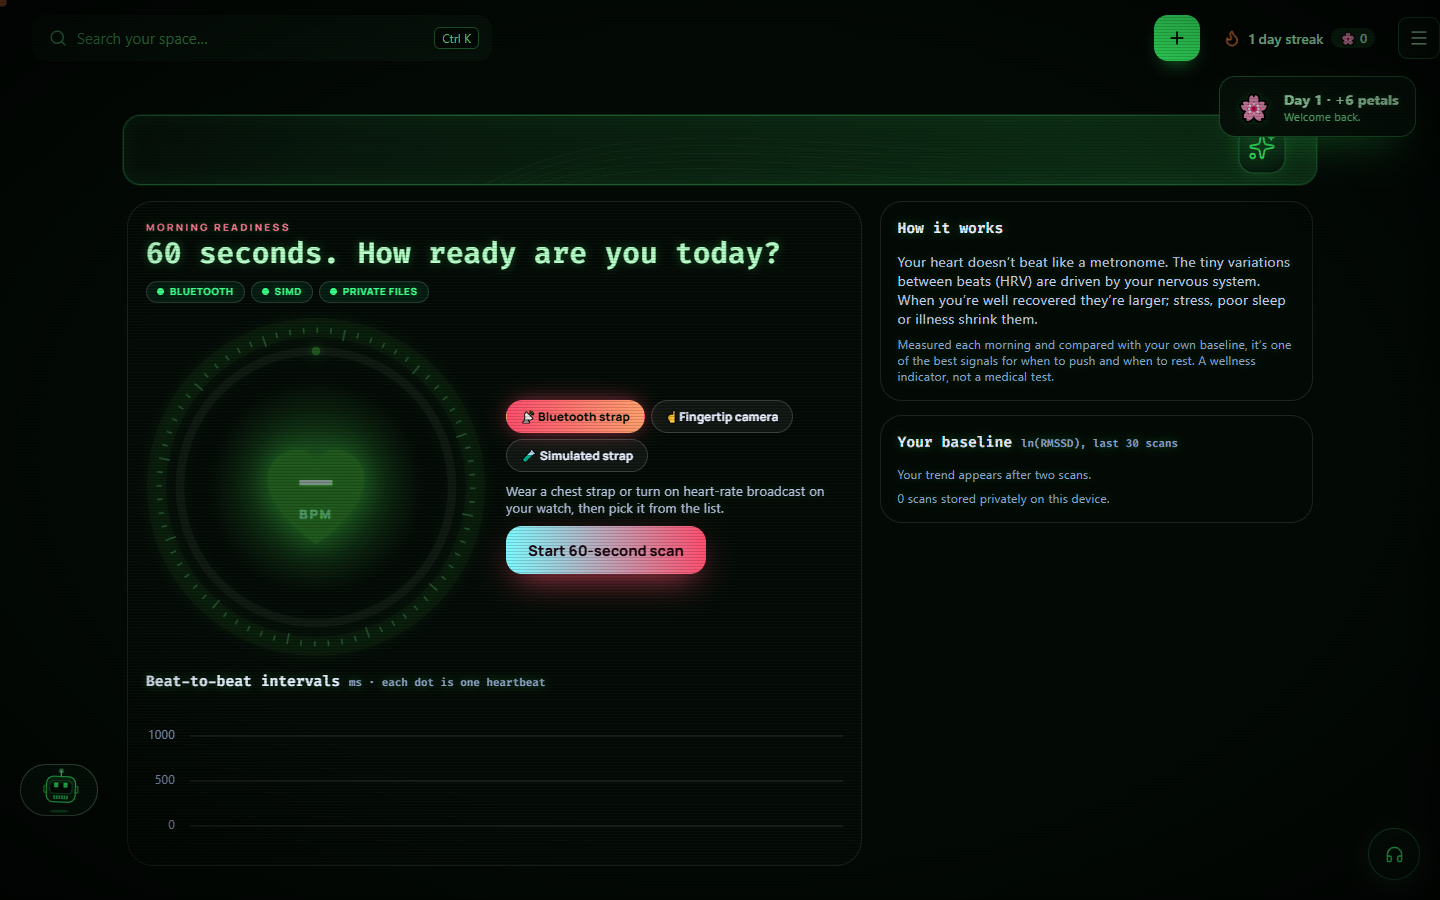
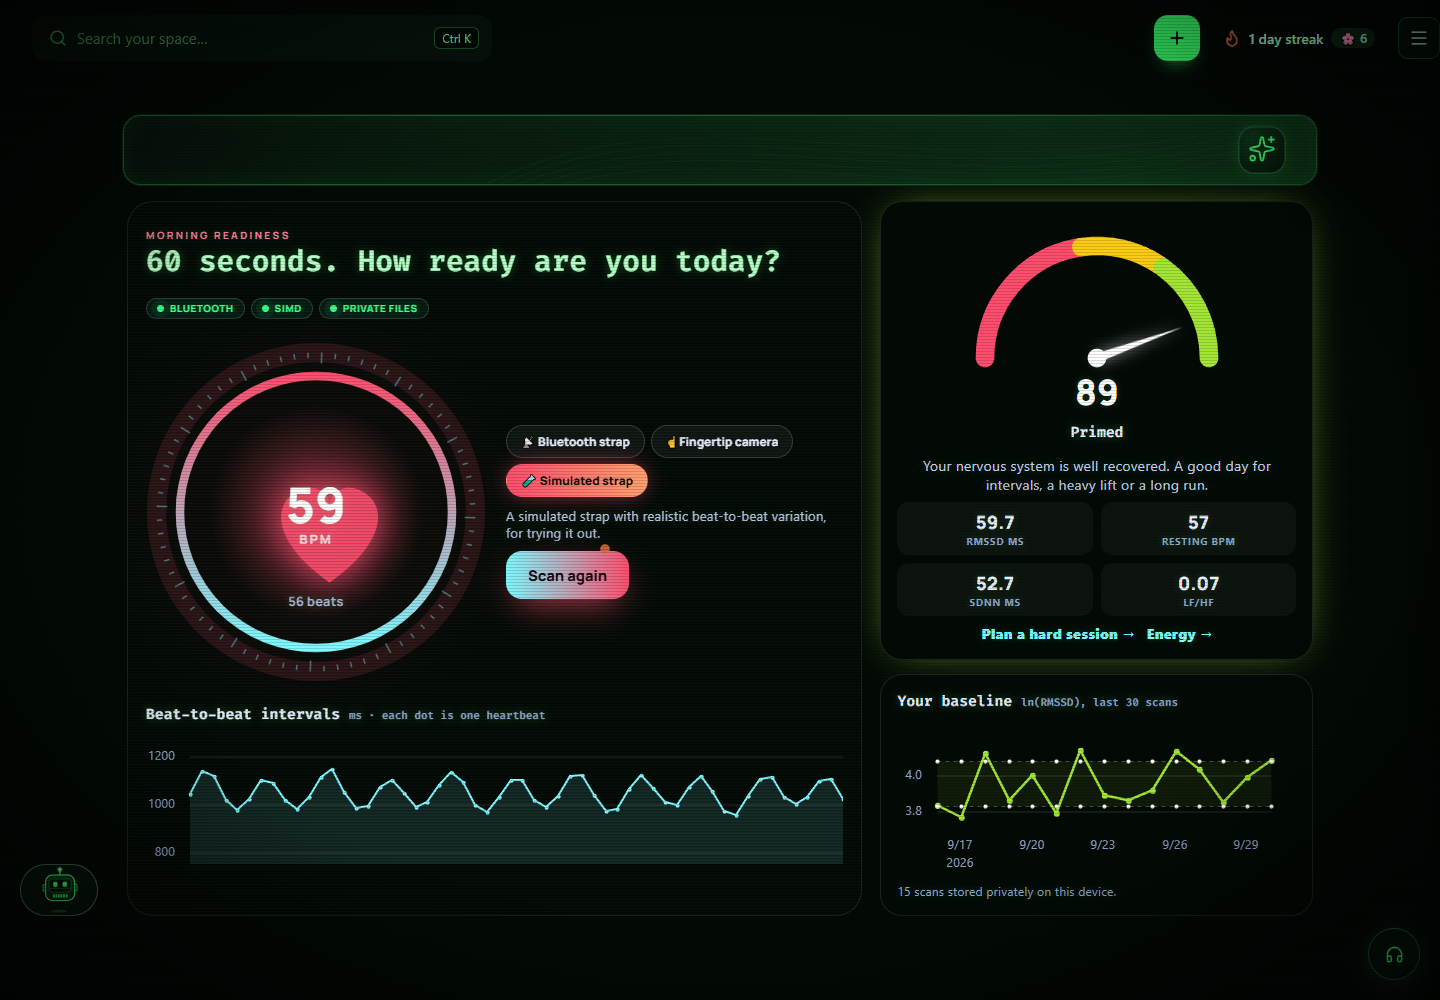
Wow 15 polish - Readiness: visible gauge needle (GSAP pivot fix), realistic simulated HRV, HUD and gauge keep their colours in Matrix; README gains an Advanced features screenshot table (Sound Lab, Terrain Replay, Readiness, Receipt Lens); plan adds Phase 2 (Compute Pressure, OffscreenCanvas, map-li

diff --git a/src/features/readiness/ReadinessPage.tsx b/src/features/readiness/ReadinessPage.tsx
@@ -36,7 +36,7 @@ function Hud({ phase, left, bpm, beats, pulse }: { phase: Phase; left: number; b
   const C = 2 * Math.PI * 128
   const done = phase === 'scanning' ? 1 - left / SCAN_S : phase === 'done' ? 1 : 0
   return (
-    <svg className="rd-hud" viewBox="0 0 320 320" role="img" aria-label={phase === 'scanning' ? `${bpm} beats per minute, ${left} seconds left` : 'Readiness scanner'}>
+    <svg className="rd-hud" data-matrix-native viewBox="0 0 320 320" role="img" aria-label={phase === 'scanning' ? `${bpm} beats per minute, ${left} seconds left` : 'Readiness scanner'}>
       <defs>
         <radialGradient id="rd-core"><stop offset="0" stopColor="#ff4d6d" stopOpacity="0.5" /><stop offset="1" stopColor="#ff4d6d" stopOpacity="0" /></radialGradient>
         <linearGradient id="rd-arc" x1="0" x2="1"><stop offset="0" stopColor="#7df9ff" /><stop offset="1" stopColor="#ff4d6d" /></linearGradient>
@@ -67,21 +67,21 @@ function Gauge({ v }: { v: Verdict }) {
   const angle = v.score == null ? -90 : -90 + (v.score / 100) * 180
   useLayoutEffect(() => {
     if (!needle.current) return
-    if (reduced()) gsap.set(needle.current, { rotation: angle, svgOrigin: '120 120' })
-    else gsap.fromTo(needle.current, { rotation: -90 }, { rotation: angle, svgOrigin: '120 120', duration: 1.8, ease: 'elastic.out(1, 0.35)' })
+    if (reduced()) gsap.set(needle.current, { rotation: angle, transformOrigin: '50% 100%' })
+    else gsap.fromTo(needle.current, { rotation: -90, transformOrigin: '50% 100%' }, { rotation: angle, duration: 1.8, ease: 'elastic.out(1, 0.35)' })
   }, [angle])
   const arc = (a0: number, a1: number) => {
     const p = (a: number) => `${120 + 96 * Math.cos(((a - 180) * Math.PI) / 180)} ${120 + 96 * Math.sin(((a - 180) * Math.PI) / 180)}`
     return `M${p(a0)} A96 96 0 0 1 ${p(a1)}`
   }
   return (
-    <svg className="rd-gauge" viewBox="0 0 240 140" role="img" aria-label={v.score == null ? v.label : `Readiness ${v.score} of 100, ${v.label}`}>
+    <svg className="rd-gauge" data-matrix-native viewBox="0 0 240 168" role="img" aria-label={v.score == null ? v.label : `Readiness ${v.score} of 100, ${v.label}`}>
       <path d={arc(0, 80)} className="rd-zone recover" />
       <path d={arc(82, 124)} className="rd-zone steady" />
       <path d={arc(126, 180)} className="rd-zone push" />
-      <g ref={needle}><line x1="120" y1="120" x2="120" y2="36" className="rd-needle" /></g>
+      <g ref={needle}><path d="M116 120 L120 42 L124 120 Z" className="rd-needle" /></g>
       <circle cx="120" cy="120" r="8" className="rd-hub" />
-      <text x="120" y="104" textAnchor="middle" className="rd-score">{v.score ?? '…'}</text>
+      <text x="120" y="160" textAnchor="middle" className="rd-score">{v.score ?? '…'}</text>
     </svg>
   )
 }
@@ -173,7 +173,7 @@ export function ReadinessPage() {
       onError: (m: string) => setErr(m),
     }
     try {
-      session.current = source === 'bluetooth' ? await connectBluetooth(h) : source === 'camera' ? await cameraPpg({ ...h, onBpm: undefined }, video.current!) : simulate(h, { hr: 57, rsa: 48, seed: Date.now() % 1000 })
+      session.current = source === 'bluetooth' ? await connectBluetooth(h) : source === 'camera' ? await cameraPpg({ ...h, onBpm: undefined }, video.current!) : simulate(h, { hr: 57, rsa: 72, seed: Date.now() % 1000 })
       setDevice(session.current.name)
       setPhase('scanning')
     } catch (e) {

diff --git a/src/features/readiness/readiness.css b/src/features/readiness/readiness.css
@@ -44,7 +44,7 @@
 .rd-zone.recover { stroke: #ff4d6d; }
 .rd-zone.steady { stroke: #facc15; }
 .rd-zone.push { stroke: #a3e635; }
-.rd-needle { stroke: #fff; stroke-width: 4; stroke-linecap: round; filter: drop-shadow(0 0 6px #fff); }
+.rd-needle { fill: #fff; filter: drop-shadow(0 0 6px #ffffffaa); }
 .rd-hub { fill: #fff; }
 .rd-score { fill: #fff; font: 900 30px 'Manrope', sans-serif; }
 .rd-metrics { display: grid; grid-template-columns: repeat(2, 1fr); gap: 8px; }

diff --git a/docs/WOW_ADVANCED_PLAN.md b/docs/WOW_ADVANCED_PLAN.md
@@ -20,6 +20,9 @@ The bar for every feature:
 | **SIMD** | WebAssembly SIMD128 |
 | **MT** | SharedArrayBuffer plus Atomics (true multi-core) |
 | **FSA** | File System Access API plus PWA file handlers |
+| **CP** | Compute Pressure API: CPU stress states (nominal, fair, serious, critical) |
+| **OC** | OffscreenCanvas: canvas rendering moved to a worker thread |
+| **MAP** | Joined to the map (Leaflet, as in Places and Run) |
 
 ## What's already in the app
 
@@ -93,3 +96,73 @@ Coverage: BT (15), OPFS (15–18, 20), GPU (13, 14, 17–20, 23), CRDT (19), SIM
 - **Bluetooth hardware (15)** runs in simulated-device mode for the demo and screenshots. Real devices work when paired.
 - Models are opt-in downloads with visible progress.
 - The Git features read local repositories only, and read-only.
+
+---
+
+# Phase 2: upgrading the existing features
+
+Money, Voice memos and Run have already been upgraded (13, 14, 16). This phase does the same for the rest of Bloom. There are three threads:
+
+1. **A calmer, smoother app:** Compute Pressure and OffscreenCanvas.
+2. **Everything on the map.**
+3. **Hardware and on-device compute** for pages that don't use them yet.
+
+Every idea below upgrades a page that already exists. None is a new standalone page, apart from Life Map (M1), which grows out of Places.
+
+## A. Platform: adaptive and off the main thread
+
+These are built once in `src/platform/`, then used by every heavy page.
+
+| # | Upgrade | What you'd notice | Caps | Libraries |
+|---|---|---|---|---|
+| A1 | **Thermal governor** (`platform/pressure.ts`) | Bloom watches CPU pressure through a `PressureObserver`. When your laptop heats up (**serious**), every 3D or particle scene steps down together: fewer particles, lower pixel ratio, 30 fps instead of 60. The worker pools shrink. At **critical**, heavy scenes pause behind a "cooling down" frost overlay. When pressure eases, quality returns. A header chip (calm, warm, hot) with a live SVG thermometer shows the state. | CP, MT | Compute Pressure API, `gsap`, `zustand` (shared quality store) |
+| A2 | **Off-thread rendering** (`platform/offscreen.ts`) | Canvas animations (WebGPU scenes, Matrix rain, visualisers, the mood orb) render in a worker through `transferControlToOffscreen()`, so typing, scrolling and heavy work never make them stutter. A debug overlay compares main-thread and render-thread frame times. | OC, GPU, CP | OffscreenCanvas, `three` (WebGPURenderer in a worker), `comlink` |
+| A3 | **Apply A1 and A2 to what we've built** | Sound Lab's mountain, Terrain Replay, Readiness HUD, 3D World, Memory Palace, Tai Chi silk shader, Decision coin, Globe quiz and Matrix rain all move off the main thread and adapt to heat. | OC, CP, GPU | the same |
+| A4 | **Build-break coach** (extends Screen time and Stretch) | Long stretches of **serious** CPU pressure usually mean compiles, test runs or Docker builds. Bloom notices and offers a 90-second stretch while you wait. Screen time learns your "machine busy" hours. | CP | Compute Pressure API, `date-fns`, `gsap` |
+
+## B. Everything on the map
+
+The map already lives in Places (with offline tile caching) and Run. The idea is to make it the thread that joins your features together.
+
+| # | Upgrade | What you'd notice | Caps | Libraries |
+|---|---|---|---|---|
+| M1 | **Life Map** (extends Places) | One map with a layer for each feature: runs (speed heat), moods, spending, journal and voice notes, people and habits. A **time slider** replays a week, month or year. A density heatmap is drawn in an OffscreenCanvas worker, so the map stays at 60 fps with thousands of points. | MAP, OC, CP, OPFS | existing `leaflet`, `deck.gl` (heatmap layer), `h3-js` (hex bins), `@turf/turf`, `gsap` |
+| M2 | **Mood geography** (extends Mood and Journal) | Check-ins can carry a coarse location (a hexagon, never exact). The map shows **where you feel best**, such as the park, the café or home, as coloured hexagons, with insights like "You log calmer moods near water." | MAP | `h3-js`, `chroma-js`, `simple-statistics`, existing `leaflet` |
+| M3 | **Money map** (extends Money and Receipt Lens) | Transactions and receipts remember where they were added. Circles are sized by spend. Tapping a shop shows every receipt image from it (stored in OPFS). You'll see things like "Your coffee radius is 400 m." | MAP, OPFS | existing `leaflet`, `@turf/turf`, `d3-scale`, `gsap` |
+| M4 | **Memory pins** (extends Daybook, Voice memos and Epiphanies) | Notes and memos remember where they were made. **"On this spot…"**: when you're near somewhere you wrote something before, Bloom offers to show it (a geofence while the app is open). | MAP, OPFS | Geolocation, `@turf/turf`, existing `leaflet` |
+| M5 | **People on the globe** (extends People garden and Globe quiz) | Friends and family on the Globe quiz's 3D globe, with a live **day/night terminator** and their local times. "Good time to call" glows for anyone awake. Birthdays show as pins. | MAP, OC | existing `d3-geo` and `topojson-client`, `suncalc`, `gsap` |
+| M6 | **Run explorer** (extends Run and Terrain Replay) | A **"streets you've run" coverage map**: street segments light up as you run them, with a percentage of your neighbourhood explored. "Suggest a new loop" builds a route of a chosen distance through streets you haven't run yet. | MAP, SIMD, MT | Overpass API (OpenStreetMap streets), `@turf/turf`, existing `leaflet`, worker pool for route matching |
+| M7 | **Place habits** (extends Habits) | Habits can have a place: gym, library or park. When you arrive (while Bloom is open), a check-in prompt appears. A habit map shows where you actually keep your habits. | MAP | Geolocation, `@turf/turf`, existing `leaflet` |
+| M8 | **Daylight map** (extends Daylight and Sleep) | Your location with the sun's position and today's light window. It logs outdoor-light minutes by place, and links to Sleep: "More morning light on days you walk to the park." | MAP | `suncalc`, existing `leaflet`, `simple-statistics` |
+| M9 | **Dark-sky finder** (extends Night sky) | A map of the nearest dark-sky spots, from light-pollution tiles and the moon phase, with tonight's best time. It opens Night sky already set to that spot. | MAP | light-pollution tile layer, existing `astronomy-engine`, `leaflet` |
+| M10 | **Year in places** (extends Yearbook) | An animated flight across every place in your year, using the Terrain Replay renderer: runs, trips and moods in order, ending on your "home base" stats. | MAP, GPU, OC | `three` (WebGPU), existing `leaflet`, `gsap` |
+
+## C. Hardware and compute upgrades for other pages
+
+| # | Upgrade (extends) | What you'd notice | Caps | Libraries |
+|---|---|---|---|---|
+| C1 | **Heart-coherence breathing** (Breathe, Breathwork, Meditate) | Uses the Readiness sources (Bluetooth strap or fingertip camera). The breathing orb expands with your **live heart-rate variability**, and a coherence score climbs as your breathing and heartbeat lock together (about 6 breaths a minute). Rendered off-thread. | BT, SIMD, OC | readiness `sources.ts`, PFFFT (SIMD), `uplot`, `gsap` |
+| C2 | **Heart-rate zones** (Intervals, Workouts, Run) | Pair a strap once and every timer shows live heart-rate zones. Intervals can auto-advance when your heart rate recovers. Workouts log average and peak heart rate. | BT, OPFS | Web Bluetooth `heart_rate`, `uplot`, `tone` |
+| C3 | **Camera features off the main thread** (Posture, Eyes, Sign alphabet, Mirror) | MediaPipe runs in a worker on an OffscreenCanvas, and drops its frame rate under CPU pressure. The page stays smooth and the laptop stays cool. | OC, CP, GPU | `@mediapipe/tasks-vision` (worker), OffscreenCanvas |
+| C4 | **Semantic memory search** (Journal, Daybook, Epiphanies, Voice) | "Find entries that feel like this one": GPU text embeddings with a vector index in OPFS, plus a constellation map of related entries. | GPU, OPFS, MT | existing `@xenova/transformers`, `orama`, `d3-force` |
+| C5 | **Soundscape engine** (Sounds, Mixer) | Noise colours, rain and binaural beats generated live in an **AudioWorklet** with SIMD DSP, so nothing loops. The visualiser renders off-thread and lowers its detail under CPU pressure. | SIMD, OC, CP | AudioWorklet, PFFFT, `tone`, OffscreenCanvas |
+| C6 | **Parallel Correlation Lab** (Insights Lab) | Every metric against every other, with bootstrap confidence intervals, computed across all cores in about a second. | MT, SIMD | worker pool, `simple-statistics`, `ml-matrix` |
+| C7 | **Vision board files** (Vision board) | Save and open boards as `.bloomboard` files on disk, with images in OPFS. Send a board file to a friend and it opens straight into Bloom. | FSA, OPFS | File System Access, manifest file_handlers, `fflate` |
+
+## Suggested order
+
+1. **A1** thermal governor and **A2** off-thread rendering. Everything after benefits.
+2. **A3**, applying them to the WebGPU scenes already built.
+3. **M1 Life Map**, the hub that M2, M3, M4 and M7 plug into as layers.
+4. **C1** and **C2**. They reuse the Readiness code, so they're quick.
+5. **M5 People on the globe** and **M6 Run explorer**.
+6. The rest (A4, C3–C7, M8–M10).
+
+This phase is in addition to the remaining features 17–21 (Bills Inbox, Morning Briefing Radio, Study Duel, Form Coach and Code City).
+
+## Caveats for Phase 2
+
+- **Compute Pressure** works in Chrome and Edge on desktop. Elsewhere Bloom measures frame times instead, and still steps quality down when frames drop.
+- **OffscreenCanvas** is widely supported. A scene that can't transfer its canvas stays on the main thread.
+- **Location** is always opt-in, stored only on the device, and coarse (moods are rounded to a hexagon). Geofences only run while Bloom is open, with no background tracking.
+- **Overpass (M6)** and **light-pollution tiles (M9)** are the only new network data. Both are open-data services.

diff --git a/README.md b/README.md
@@ -39,6 +39,18 @@ A personal React 19 health-coaching dashboard with a Habitica-inspired purple pa
 | ![Bloom World (3D), Bloom Light theme](docs/screenshots/bloom-world-light.png) | ![Bloom World (3D), Matrix theme](docs/screenshots/bloom-world-matrix.png) |
 | ![Settings — avatar picker, Bloom Light theme](docs/screenshots/settings-avatars-light.png) | ![Settings — avatar picker, Matrix theme](docs/screenshots/settings-avatars-matrix.png) |
 
+### Advanced features
+
+Built on Web Bluetooth, WebGPU, WebAssembly SIMD, multi-core workers, the Origin Private File System and File System Access (see [docs/WOW_ADVANCED_PLAN.md](docs/WOW_ADVANCED_PLAN.md)).
+
+| Feature | Bloom Light | Matrix |
+|---|---|---|
+| **Sound Lab**: one-tap noise removal for voice memos (RNNoise and a SIMD spectral gate, all cores, WebGPU spectrogram) | ![Sound Lab](docs/screenshots/wow-13-soundlab.png) | ![Sound Lab, Matrix](docs/screenshots/wow-13-soundlab-matrix.png) |
+| **Terrain Replay**: fly a drone along a GPX route over its own elevation, in sync with the map | ![Terrain Replay](docs/screenshots/wow-14-terrain.png) | ![Terrain Replay, Matrix](docs/screenshots/wow-14-terrain-matrix.png) |
+| **Morning Readiness Scan**: 60-second HRV from a Bluetooth strap, the fingertip camera or a simulator | ![Readiness](docs/screenshots/wow-15-readiness.png) | ![Readiness, Matrix](docs/screenshots/wow-15-readiness-matrix.png) |
+| **Receipt Lens**: on-device OCR on every core turns receipts into Money transactions | ![Receipt Lens](docs/screenshots/wow-16-receipts.png) | ![Receipt Lens, Matrix](docs/screenshots/wow-16-receipts-matrix.png) |
+<!-- advanced-features-end -->
+
 To regenerate them, start the dev server (`npm run dev`) and run `node scripts/screenshots.mjs`. It uses Playwright with your installed Chrome, and doubles as a smoke test: it records console errors, uncaught exceptions, crashed pages and blank pages for every shot in `docs/screenshots/report.json`.
 
 ## Highlights
